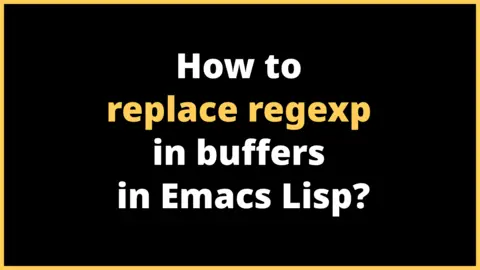
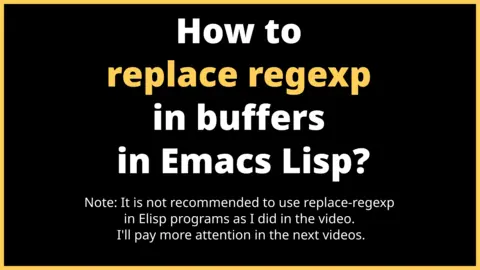
fix not recommended usage of `replace-regexp`

Changed region(s): [[0.1562, 0.0593, 0.8438, 0.8889]]

diff --git a/public/2023-09-01-how-to-replace-regexp-in-buffers-in-emacs-lisp/index.html b/public/2023-09-01-how-to-replace-regexp-in-buffers-in-emacs-lisp/index.html
@@ -1,5 +1,9 @@
-<!DOCTYPE html><html lang="en"><head><meta name="viewport" content="width=device-width,initial-scale=1" /><meta name="description" content="Learn Emacs Lisp One Sexp At A Time." /><link rel="stylesheet" type="text/css" href="/main.css" /><title>How to replace regexp in buffers in Emacs Lisp?</title></head><body><div id="minibuffer">minibuffer</div><div id="content"><div id="header"><a href="/"><div id="minibuffer">minibuffer</div></a></div><a href="#"><div id="scroll-to-top"><svg id="chevron-top" viewBox="0 0 32 32"><path d="M15.997 13.374l-7.081 7.081L7 18.54l8.997-8.998 9.003 9-1.916 1.916z"></path></svg></div></a><div id="columns"><div id="primary"><iframe src="https://www.youtube.com/embed/sPup0RjLLmo?&amp;fs=1&amp;modestbranding=1&amp;rel=0&amp;widget_referrer=https://minibuffer.tonyaldon.com" title="YouTube video player playing How to replace regexp in buffers in Emacs Lisp?" frameborder="0" allow="fullscreen;accelerometer;autoplay;clipboard-write;encrypted-media;gyroscope;picture-in-picture;web-share"></iframe><h1>How to replace regexp in buffers in Emacs Lisp?</h1><div class="date" style="padding-bottom:1em;">September 01, 2023</div><div><pre><code class="one-hl one-hl-block">(replace-regexp <span class="one-hl-string">"-b"</span> <span class="one-hl-string">"^^^^"</span>)
-(replace-regexp <span class="one-hl-string">"-b"</span> <span class="one-hl-string">"^^^^"</span> (point-min) (point-max))
+<!DOCTYPE html><html lang="en"><head><meta name="viewport" content="width=device-width,initial-scale=1" /><meta name="description" content="Learn Emacs Lisp One Sexp At A Time." /><link rel="stylesheet" type="text/css" href="/main.css" /><title>How to replace regexp in buffers in Emacs Lisp?</title></head><body><div id="minibuffer">minibuffer</div><div id="content"><div id="header"><a href="/"><div id="minibuffer">minibuffer</div></a></div><a href="#"><div id="scroll-to-top"><svg id="chevron-top" viewBox="0 0 32 32"><path d="M15.997 13.374l-7.081 7.081L7 18.54l8.997-8.998 9.003 9-1.916 1.916z"></path></svg></div></a><div id="columns"><div id="primary"><iframe src="https://www.youtube.com/embed/sPup0RjLLmo?&amp;fs=1&amp;modestbranding=1&amp;rel=0&amp;widget_referrer=https://minibuffer.tonyaldon.com" title="YouTube video player playing How to replace regexp in buffers in Emacs Lisp?" frameborder="0" allow="fullscreen;accelerometer;autoplay;clipboard-write;encrypted-media;gyroscope;picture-in-picture;web-share"></iframe><h1>How to replace regexp in buffers in Emacs Lisp?</h1><div class="date" style="padding-bottom:1em;">September 01, 2023</div><div><p>Note: It is not recommended to use <code class="one-hl one-hl-inline">replace-regexp</code> in Elisp programs as
+I did in the video.  I&apos;ll pay more attention in the next videos.
+</p>
+
+<pre><code class="one-hl one-hl-block">(replace-regexp <span class="one-hl-string">"-b"</span> <span class="one-hl-string">"^^^^"</span>)
+(replace-regexp <span class="one-hl-string">"-b"</span> <span class="one-hl-string">"^^^^"</span> nil (point-min) (point-max))
 (replace-regexp <span class="one-hl-string">"-b"</span> <span class="one-hl-string">"^^^^"</span> nil (point-at-bol) (point-at-eol))</code></pre>
 </div>
 </div><div id="secondary"><div id="items"><div class="item"><a href="/2023-08-22-how-to-match-47-characters-in-a-string-with-emacs-lisp/"><div class="thumbnail"><img src="/img/2023-08-22-thumbnail.webp" alt="How to match 47 characters in a string with Emacs Lisp?" width="168px" height="94px" /></div><div class="details"><h4>How to match 47 characters in a string with Emacs Lisp?</h4><div class="date">August 22, 2023</div></div></a></div><div class="item"><a href="/2023-08-23-how-to-put-the-value-of-an-org-property-in-the-kill-ring/"><div class="thumbnail"><img src="/img/2023-08-23-thumbnail.webp" alt="How to put the value of an Org property in the kill-ring?" width="168px" height="94px" /></div><div class="details"><h4>How to put the value of an Org property in the kill-ring?</h4><div class="date">August 23, 2023</div></div></a></div><div class="item"><a href="/2023-08-24-do-you-know-how-to-generate-html-strings-with-emacs-lisp/"><div class="thumbnail"><img src="/img/2023-08-24-thumbnail.webp" alt="Do you know how to generate html strings with Emacs Lisp?" width="168px" height="94px" /></div><div class="details"><h4>Do you know how to generate html strings with Emacs Lisp?</h4><div class="date">August 24, 2023</div></div></a></div><div class="item"><a href="/2023-08-25-how-to-add-html-attributes-with-the-emacs-package-jack/"><div class="thumbnail"><img src="/img/2023-08-25-thumbnail.webp" alt="How to add html attributes with the Emacs package Jack?" width="168px" height="94px" /></div><div class="details"><h4>How to add html attributes with the Emacs package Jack?</h4><div class="date">August 25, 2023</div></div></a></div><div class="item"><a href="/2023-08-26-how-to-check-for-a-regexp-match-after-point-with-emacs-lisp/"><div class="thumbnail"><img src="/img/2023-08-26-thumbnail.webp" alt="How to check for a regexp match after point with Emacs Lisp?" width="168px" height="94px" /></div><div class="details"><h4>How to check for a regexp match after point with Emacs Lisp?</h4><div class="date">August 26, 2023</div></div></a></div><div class="item"><a href="/2023-08-27-how-to-insert-foo-at-the-end-of-buffer-without-changing-point-with-emacs-lisp/"><div class="thumbnail"><img src="/img/2023-08-27-thumbnail.webp" alt="How to insert foo at the end of buffer without changing point with Emacs Lisp?" width="168px" height="94px" /></div><div class="details"><h4>How to insert foo at the end of buffer without changing point with Emacs Lisp?</h4><div class="date">August 27, 2023</div></div></a></div><div class="item"><a href="/2023-08-28-how-to-check-for-the-states-of-buffer-local-variables-in-emacs-lisp/"><div class="thumbnail"><img src="/img/2023-08-28-thumbnail.webp" alt="How to check for the states of buffer-local variables in Emacs Lisp?" width="168px" height="94px" /></div><div class="details"><h4>How to check for the states of buffer-local variables in Emacs Lisp?</h4><div class="date">August 28, 2023</div></div></a></div><div class="item"><a href="/2023-08-29-how-to-turn-a-function-into-a-command-in-emacs-lisp/"><div class="thumbnail"><img src="/img/2023-08-29-thumbnail.webp" alt="How to turn a function into a command in Emacs Lisp?" width="168px" height="94px" /></div><div class="details"><h4>How to turn a function into a command in Emacs Lisp?</h4><div class="date">August 29, 2023</div></div></a></div><div class="item"><a href="/2023-08-30-how-to-insert-strings-in-a-given-buffer-in-emacs-lisp/"><div class="thumbnail"><img src="/img/2023-08-30-thumbnail.webp" alt="How to insert strings in a given buffer in Emacs Lisp?" width="168px" height="94px" /></div><div class="details"><h4>How to insert strings in a given buffer in Emacs Lisp?</h4><div class="date">August 30, 2023</div></div></a></div><div class="item"><a href="/2023-08-31-how-to-list-files-in-a-given-directory-in-emacs-lisp/"><div class="thumbnail"><img src="/img/2023-08-31-thumbnail.webp" alt="How to list files in a given directory in Emacs Lisp?" width="168px" height="94px" /></div><div class="details"><h4>How to list files in a given directory in Emacs Lisp?</h4><div class="date">August 31, 2023</div></div></a></div><div class="item"><a href="/2023-09-01-how-to-replace-regexp-in-buffers-in-emacs-lisp/"><div class="thumbnail"><img src="/img/2023-09-01-thumbnail.webp" alt="How to replace regexp in buffers in Emacs Lisp?" width="168px" height="94px" /></div><div class="details"><h4>How to replace regexp in buffers in Emacs Lisp?</h4><div class="date">September 01, 2023</div></div></a></div></div></div></div><div id="footer"><div>Twitter: <a href="https://twitter.com/tonyaldon">@tonyaldon</a> | Email: <a href="mailto:tony@tonyaldon.com">tony@tonyaldon.com</a> | RSS: <a href="/feed.xml">feed.xml</a></div><div>© 2023 Tony Aldon.  All rights reserved.</div></div></div><script>
